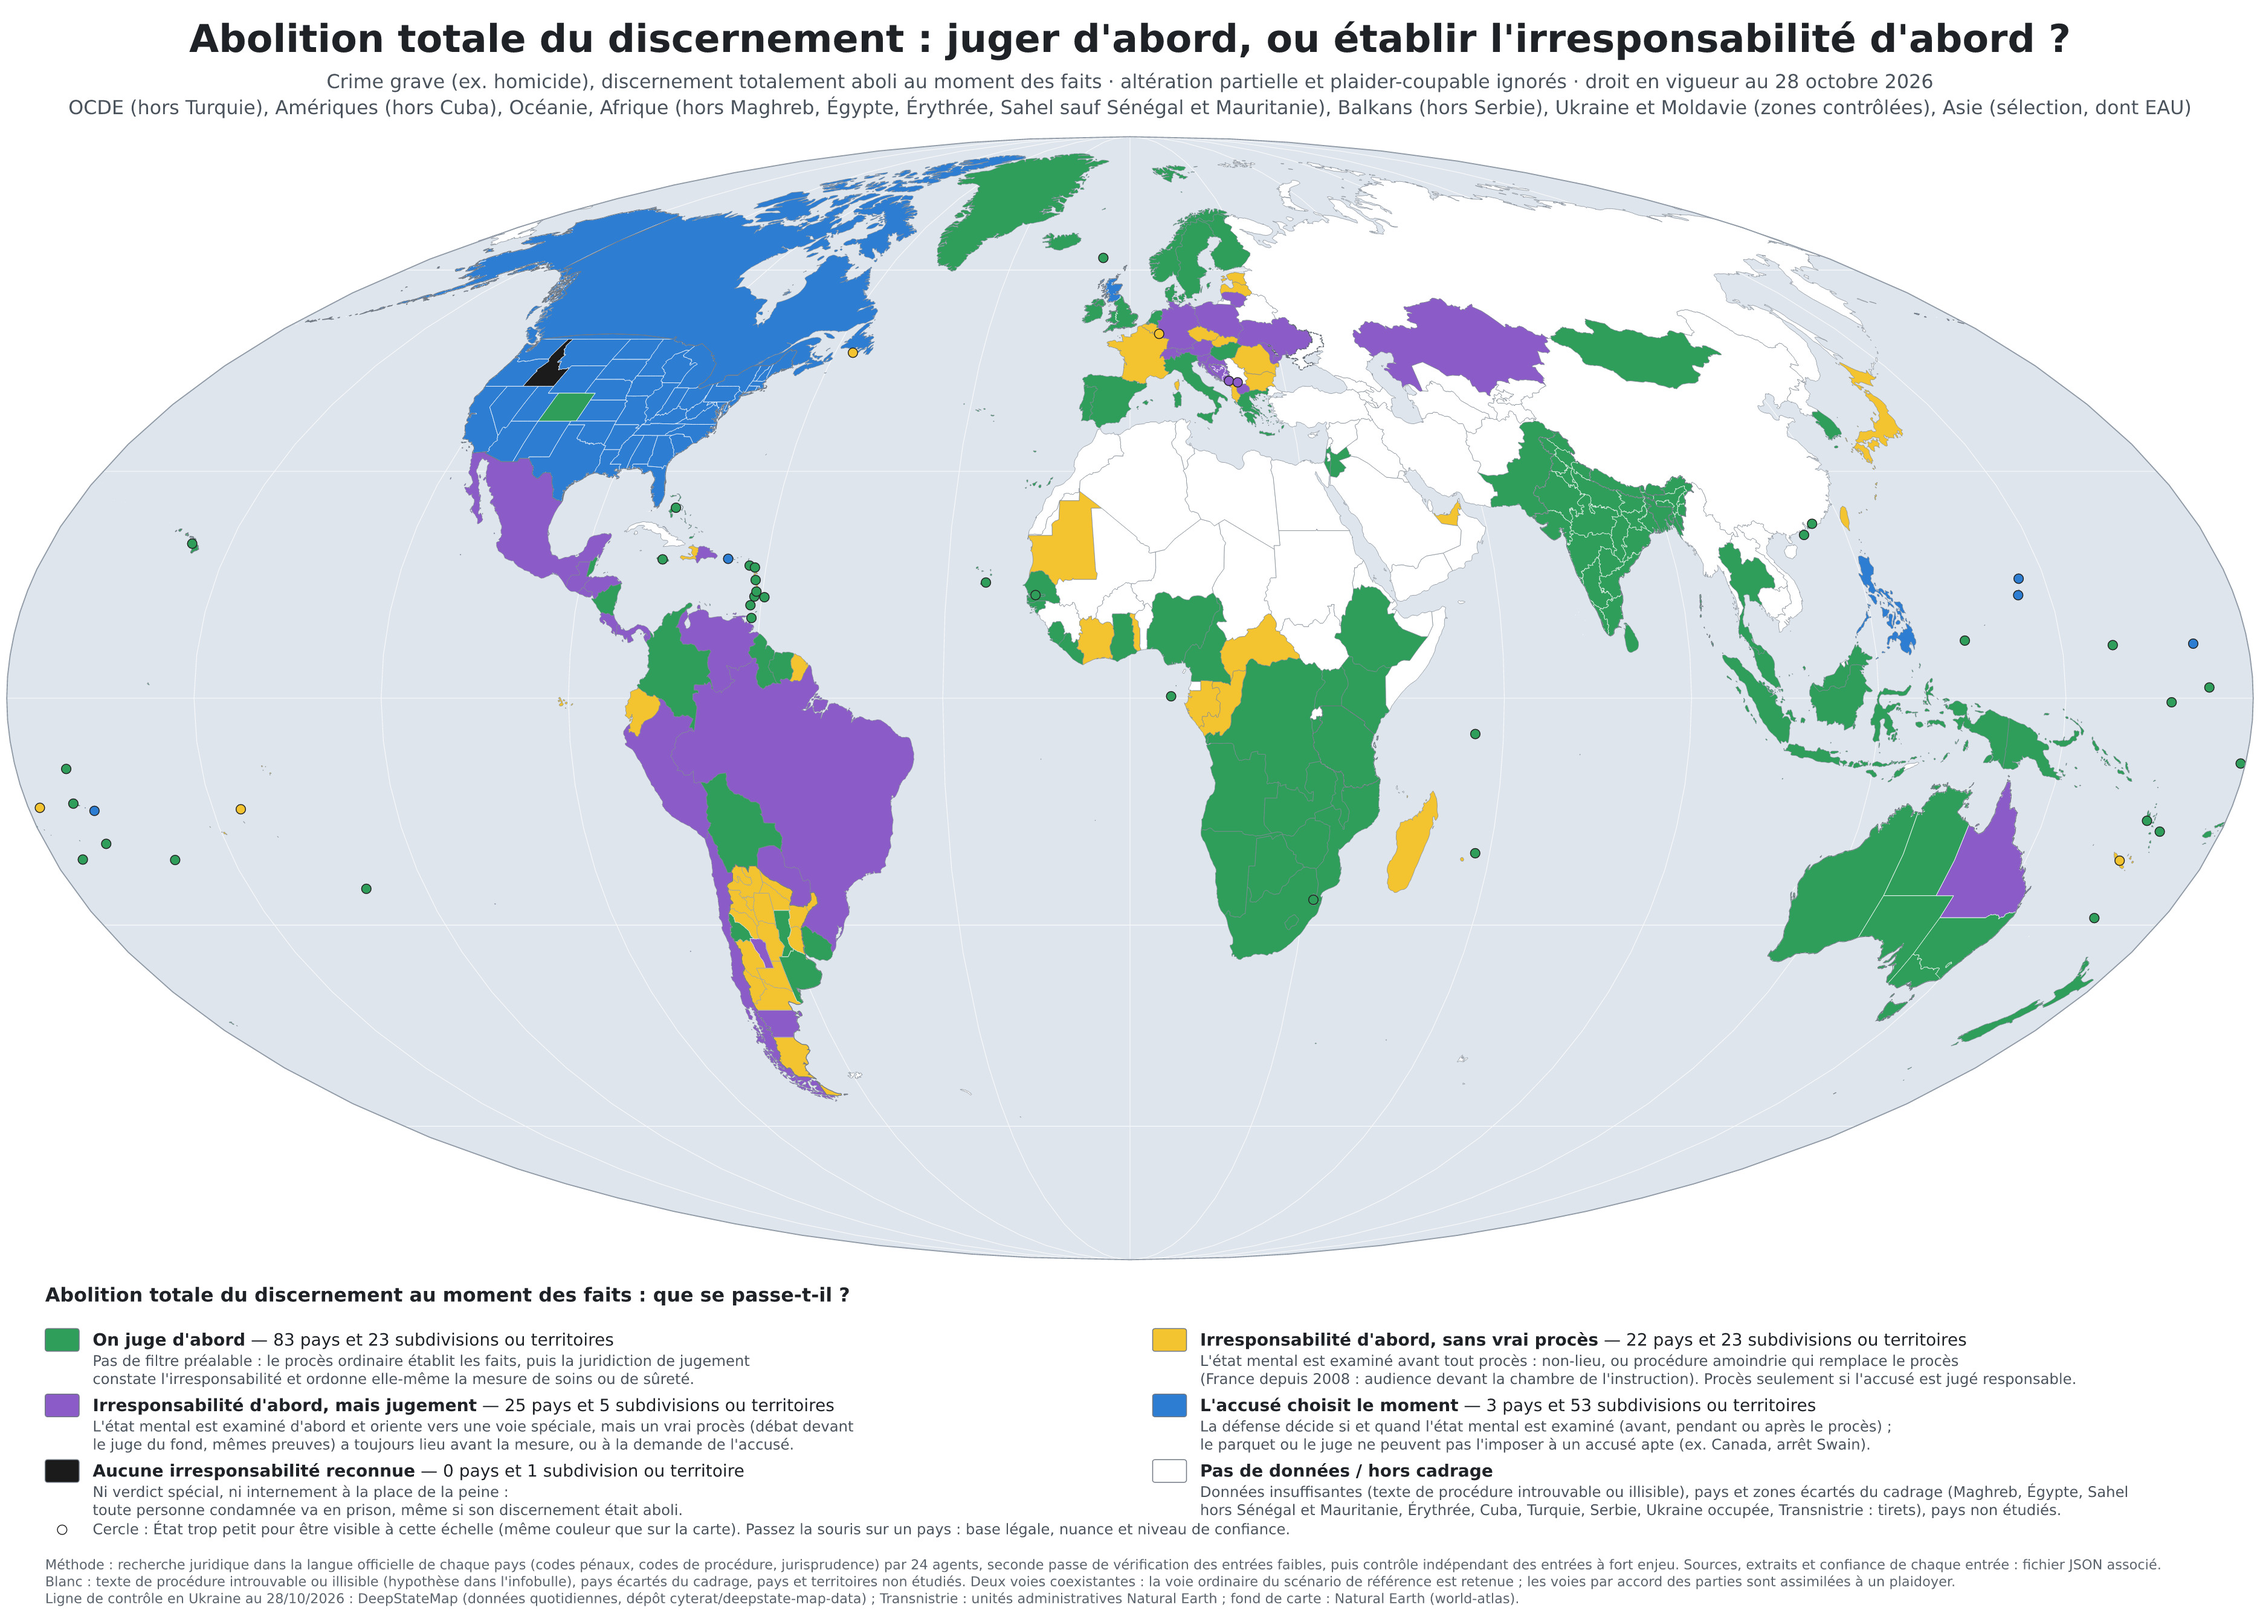
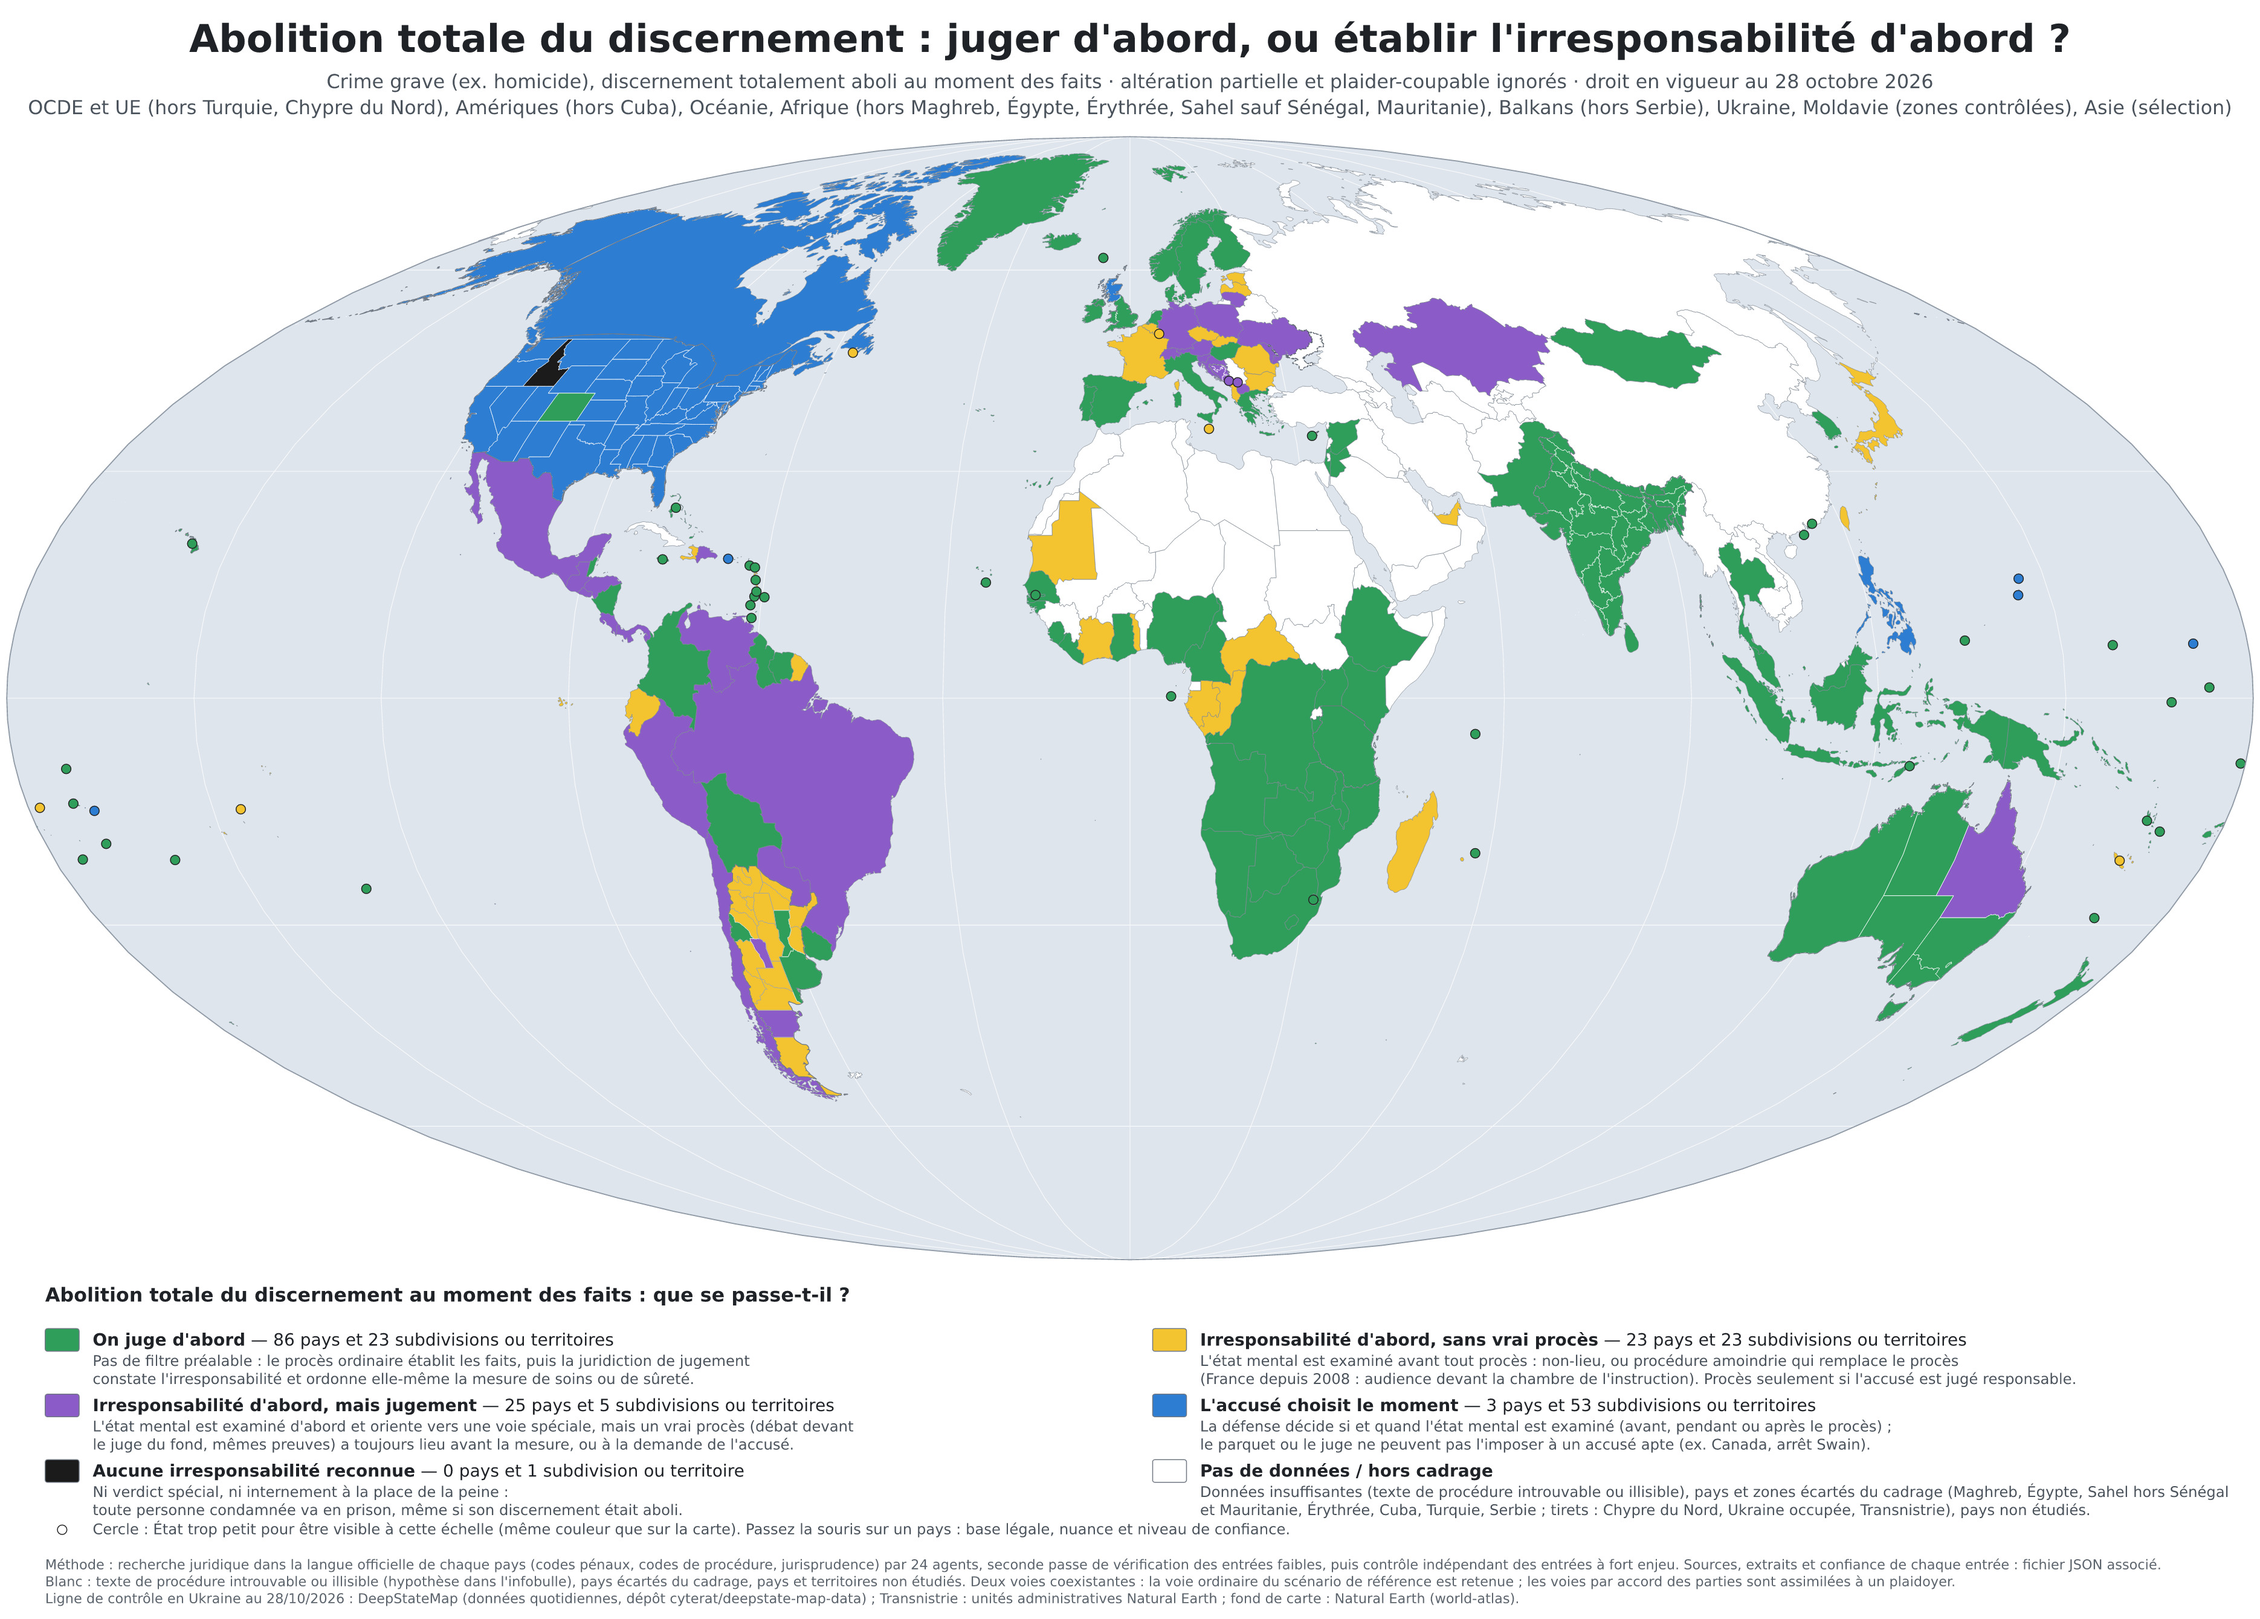
Ajout de Chypre, Malte, du Timor oriental et de la Syrie ; Chypre du Nord écartée comme la Turquie
- Chypre : vert (Cap. 155 art. 70 : acquittement pour trouble mental seulement après procès)
- Malte : jaune (Code pénal art. 402 : internement ordonné pendant l'instruction, jury spécial seulement en cas de contestation)
- Timor oriental : vert (pas de procédure spéciale ; le tribunal de jugement constate l'inimputabilité)
- Syrie : vert (Cour de cassation 1985 : pas de non-lieu pour démence avant le procès)
- Chypre du Nord : écartée, sous contrôle turc, dessinée en blanc à tirets
- Carte, comptes de la légende et README mis à jour

Claude-Session: https://claude.ai/code/session_01C8wuSvmA6iqUz3Janqs4PB

Changed region(s): [[0.031, 0.0619, 0.9615, 0.0929], [0.5583, 0.9291, 0.8995, 0.9601], [0.5893, 0.2478, 0.6203, 0.2787]]

diff --git a/README.md b/README.md
@@ -16,8 +16,8 @@ fédérée : la règle, sa base légale, les nuances et le niveau de confiance.
 
 | Couleur | Signification | Pays | Subdivisions ou territoires |
 |---|---|---:|---:|
-| Vert | **On juge d'abord** : pas de filtre préalable ; le procès ordinaire établit les faits, puis la juridiction de jugement constate l'irresponsabilité et ordonne elle-même la mesure. | 83 | 23 |
-| Jaune | **Irresponsabilité d'abord, sans vrai procès** : état mental examiné avant tout procès ; non-lieu, ou procédure amoindrie qui remplace le procès (France depuis 2008). | 22 | 23 |
+| Vert | **On juge d'abord** : pas de filtre préalable ; le procès ordinaire établit les faits, puis la juridiction de jugement constate l'irresponsabilité et ordonne elle-même la mesure. | 86 | 23 |
+| Jaune | **Irresponsabilité d'abord, sans vrai procès** : état mental examiné avant tout procès ; non-lieu, ou procédure amoindrie qui remplace le procès (France depuis 2008). | 23 | 23 |
 | Violet | **Irresponsabilité d'abord, mais jugement** : voie spéciale, mais un vrai procès précède toujours la mesure, ou a lieu à la demande de l'accusé. | 25 | 5 |
 | Bleu | **L'accusé choisit le moment** : la défense décide si et quand l'état mental est examiné (ex. Canada, arrêt Swain). | 3 | 53 |
 | Noir | **Aucune irresponsabilité reconnue** : toute personne condamnée va en prison. | 0 | 1 |
@@ -28,9 +28,10 @@ et le plaider-coupable sont ignorés ; l'aptitude à être jugé est décrite ma
 États fédéraux sont découpés par entité quand la règle est infranationale (États-Unis, Australie, Royaume-Uni,
 Argentine, Inde/Kerala, Tanzanie/Zanzibar, Bosnie-Herzégovine).
 
-**Périmètre.** OCDE (hors Turquie), Amériques (hors Cuba), Océanie, Afrique (hors Maghreb, Égypte, Érythrée et
-Sahel sauf Sénégal et Mauritanie), Balkans (hors Serbie), Ukraine et Moldavie (zones contrôlées), et une
-sélection de pays d'Asie dont les Émirats arabes unis. Un régime autoritaire n'est pas exclu en tant que tel :
+**Périmètre.** Pays de l'OCDE et de l'UE (hors Turquie et Chypre du Nord, sous contrôle turc), Amériques (hors
+Cuba), Océanie, Afrique (hors Maghreb, Égypte, Érythrée et Sahel sauf Sénégal et Mauritanie), Balkans (hors
+Serbie), Ukraine et Moldavie (zones contrôlées), et une sélection de pays d'Asie dont la Syrie, le Timor
+oriental et les Émirats arabes unis. Un régime autoritaire n'est pas exclu en tant que tel :
 ce qui compte est que, pour le droit commun, la loi sur les droits de la défense reste suivie (hors
 corruption). Là où l'absence d'État de droit fait que la loi n'est qu'indicative, pas une obligation, la
 juridiction est écartée (voir [CONTRIBUTING.md](CONTRIBUTING.md)).
@@ -43,7 +44,7 @@ l'hypothèse non vérifiée quand il y en a une. Les contributions sont particul
 
 | Chemin | Contenu |
 |---|---|
-| `donnees/irresponsabilite_penale.json` | **Le jeu de données** : 253 entrées avec les faits, les bases légales, un extrait verbatim, des notes, les sources, la confiance, l'historique et les contrôles indépendants ; méthodologie, périmètre, description des champs (`meta.schema`) et règles de contribution. |
+| `donnees/irresponsabilite_penale.json` | **Le jeu de données** : 257 entrées avec les faits, les bases légales, un extrait verbatim, des notes, les sources, la confiance, l'historique et les contrôles indépendants ; méthodologie, périmètre, description des champs (`meta.schema`) et règles de contribution. |
 | `cartes/irresponsabilite_penale.svg` / `.jpg` | Carte : SVG interactif et JPG de 3740 × 2680 pixels (10 mégapixels). |
 | `outils/` | Validation (`donnees.py`) et génération de la carte (`construire.sh`, Node.js + Python). |
 
